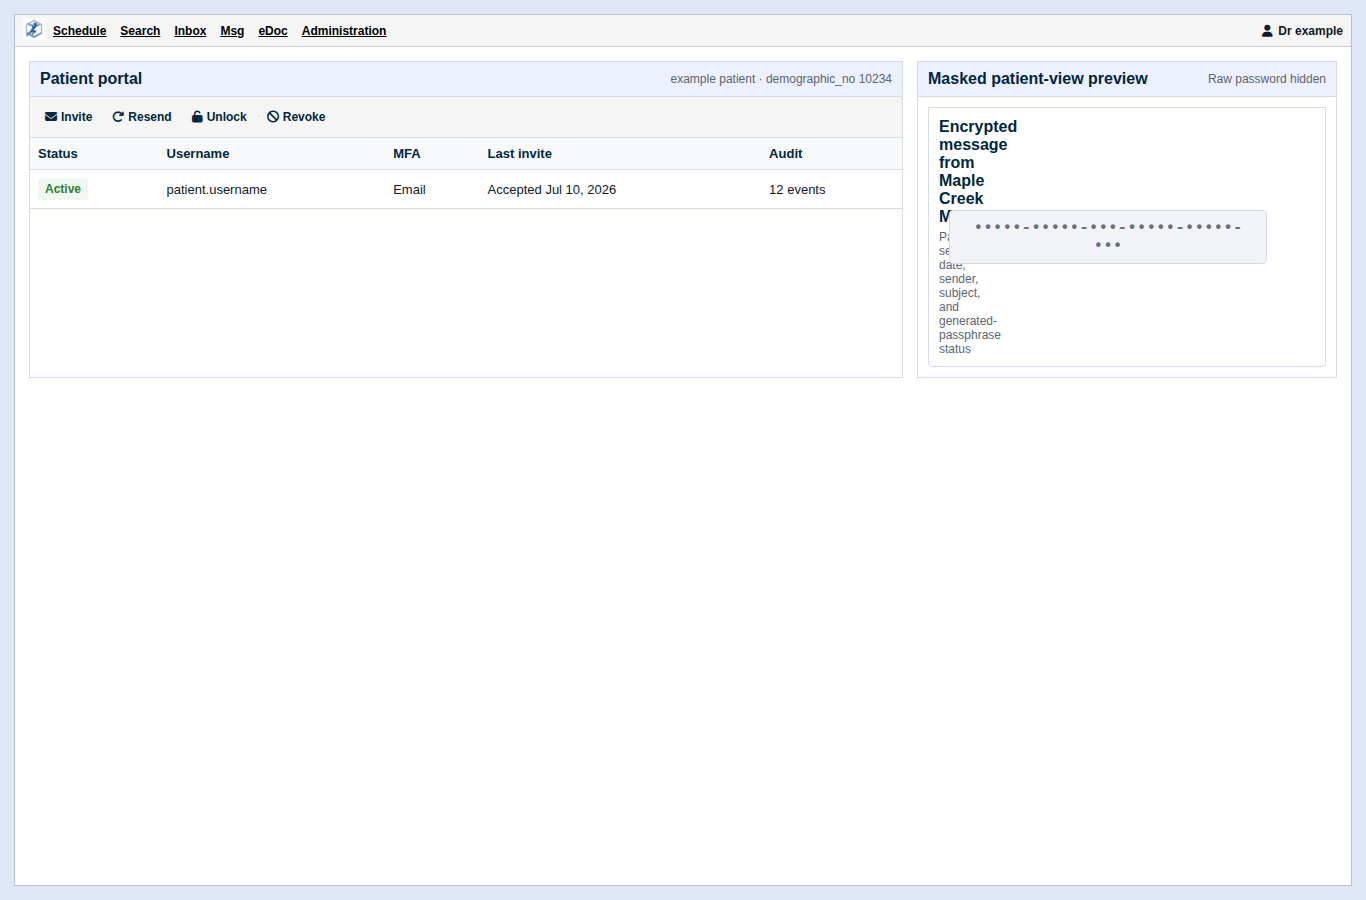
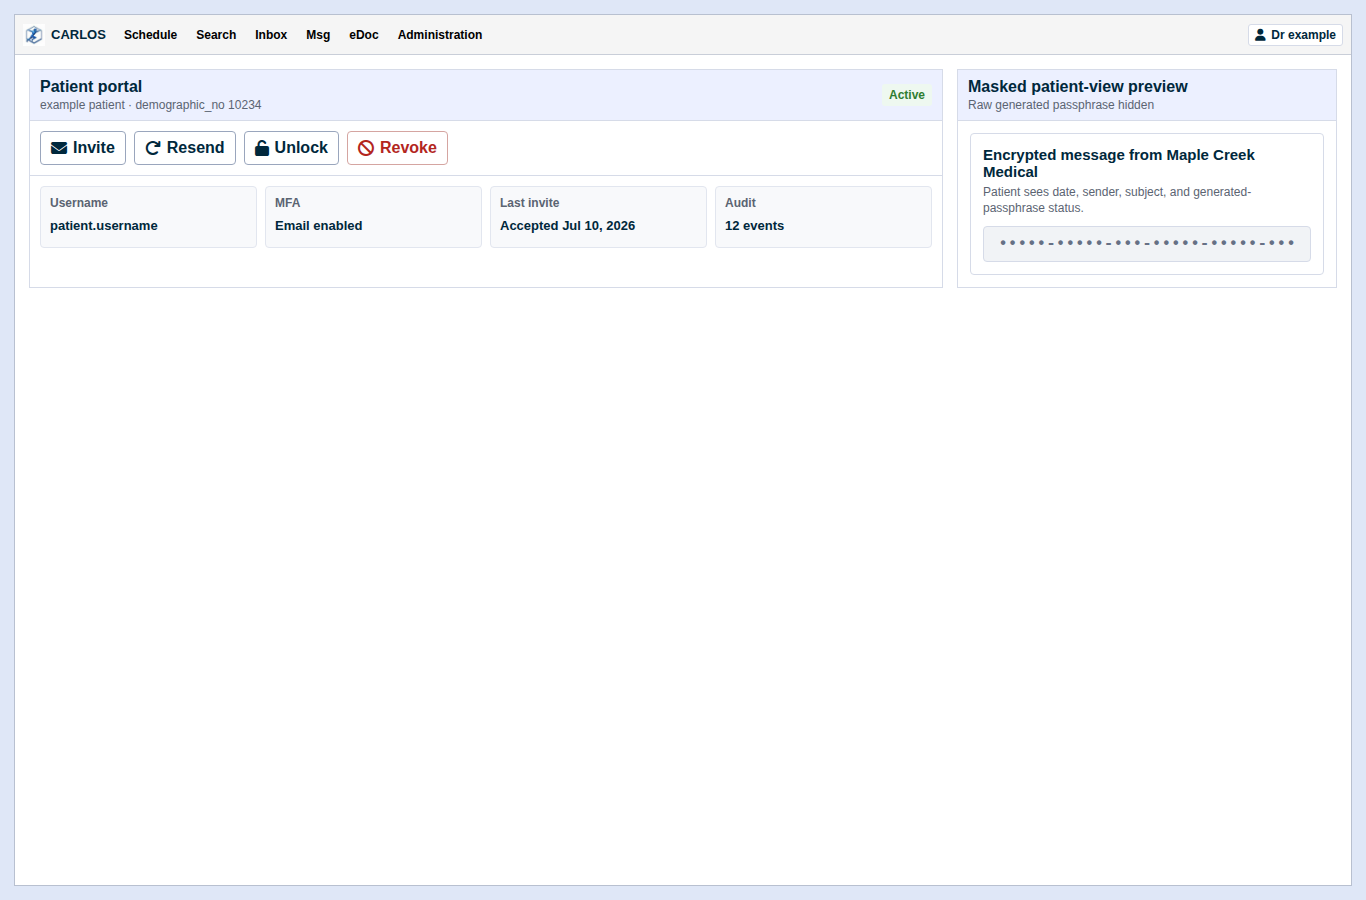
docs: clean up staff portal admin mock

diff --git a/patient-portal-mocks/index.html b/patient-portal-mocks/index.html
@@ -337,61 +337,67 @@
 
       <section class="portal-screen" id="staff" aria-label="Staff admin mock">
         <header class="staff-topbar">
-          <div class="staff-nav">
-            <span class="tiny-logo"><img src="../src/main/webapp/images/oscar_logo_small.png" alt=""></span>
+          <div class="staff-brand">
+            <img src="../src/main/webapp/images/oscar_logo_small.png" alt="">
+            <strong>CARLOS</strong>
+          </div>
+          <nav class="staff-nav" aria-label="CARLOS navigation">
             <a href="#">Schedule</a>
             <a href="#">Search</a>
             <a href="#">Inbox</a>
             <a href="#">Msg</a>
             <a href="#">eDoc</a>
             <a href="#">Administration</a>
-          </div>
+          </nav>
           <div class="staff-user"><i class="fas fa-user"></i><span>Dr example</span></div>
         </header>
 
         <div class="staff-workspace">
-          <section class="staff-panel">
+          <section class="staff-panel staff-account-panel">
             <div class="panel-titlebar">
-              <h1>Patient portal</h1>
-              <span>example patient · demographic_no 10234</span>
+              <div>
+                <h1>Patient portal</h1>
+                <span>example patient · demographic_no 10234</span>
+              </div>
+              <span class="pill good">Active</span>
             </div>
             <div class="staff-toolbar">
-              <button class="toolbar-link"><i class="fas fa-envelope"></i><span>Invite</span></button>
-              <button class="toolbar-link"><i class="fas fa-redo"></i><span>Resend</span></button>
-              <button class="toolbar-link"><i class="fas fa-unlock"></i><span>Unlock</span></button>
-              <button class="toolbar-link danger"><i class="fas fa-ban"></i><span>Revoke</span></button>
+              <button class="secondary-action"><i class="fas fa-envelope"></i><span>Invite</span></button>
+              <button class="secondary-action"><i class="fas fa-redo"></i><span>Resend</span></button>
+              <button class="secondary-action"><i class="fas fa-unlock"></i><span>Unlock</span></button>
+              <button class="secondary-action danger-action"><i class="fas fa-ban"></i><span>Revoke</span></button>
             </div>
-            <table class="staff-table">
-              <thead>
-                <tr>
-                  <th>Status</th>
-                  <th>Username</th>
-                  <th>MFA</th>
-                  <th>Last invite</th>
-                  <th>Audit</th>
-                </tr>
-              </thead>
-              <tbody>
-                <tr>
-                  <td><span class="pill good">Active</span></td>
-                  <td>patient.username</td>
-                  <td>Email</td>
-                  <td>Accepted Jul 10, 2026</td>
-                  <td>12 events</td>
-                </tr>
-              </tbody>
-            </table>
+            <div class="staff-detail-grid">
+              <div>
+                <span>Username</span>
+                <strong>patient.username</strong>
+              </div>
+              <div>
+                <span>MFA</span>
+                <strong>Email enabled</strong>
+              </div>
+              <div>
+                <span>Last invite</span>
+                <strong>Accepted Jul 10, 2026</strong>
+              </div>
+              <div>
+                <span>Audit</span>
+                <strong>12 events</strong>
+              </div>
+            </div>
           </section>
 
-          <section class="staff-panel">
+          <section class="staff-panel staff-preview-panel">
             <div class="panel-titlebar">
-              <h2>Masked patient-view preview</h2>
-              <span>Raw password hidden</span>
+              <div>
+                <h2>Masked patient-view preview</h2>
+                <span>Raw generated passphrase hidden</span>
+              </div>
             </div>
-            <article class="record-row staff-preview">
-              <div class="record-main">
-                <div class="record-title">Encrypted message from Maple Creek Medical</div>
-                <div class="record-meta">Patient sees date, sender, subject, and generated-passphrase status</div>
+            <article class="staff-preview">
+              <div>
+                <h3>Encrypted message from Maple Creek Medical</h3>
+                <p>Patient sees date, sender, subject, and generated-passphrase status.</p>
               </div>
               <div class="password-chip muted">•••••-•••••-•••-•••••-•••••-•••</div>
             </article>

diff --git a/patient-portal-mocks/styles.css b/patient-portal-mocks/styles.css
@@ -693,41 +693,63 @@ h2 {
 }
 
 .staff-topbar {
-  min-height: 32px;
-  padding: 2px 8px;
+  display: grid;
+  grid-template-columns: auto minmax(0, 1fr) auto;
+  gap: 10px;
+  align-items: center;
+  min-height: 40px;
+  padding: 5px 8px;
+}
+
+.staff-brand {
+  display: inline-flex;
+  align-items: center;
+  gap: 6px;
+  color: var(--carlos-blue-dark);
+  font-size: 13px;
+}
+
+.staff-brand img {
+  width: 22px;
+  height: 22px;
 }
 
 .staff-nav {
   display: flex;
   align-items: center;
-  flex-wrap: wrap;
-  gap: 2px;
+  flex-wrap: nowrap;
+  gap: 3px;
+  min-width: 0;
 }
 
 .staff-nav a {
-  padding: 3px 6px;
+  padding: 4px 7px;
   color: #000;
   font-size: 12px;
   font-weight: bold;
-  text-decoration: underline;
+  border: 1px solid transparent;
+  border-radius: 3px;
+  text-decoration: none;
+  white-space: nowrap;
 }
 
 .staff-nav a:hover {
   color: #fff;
   background: var(--carlos-blue);
+  border-color: var(--carlos-blue);
   text-decoration: none;
 }
 
-.tiny-logo img {
-  width: 22px;
-  height: 22px;
-}
-
 .staff-user {
-  display: flex;
+  display: inline-flex;
   gap: 5px;
   align-items: center;
-  margin-left: auto;
+  justify-self: end;
+  padding: 3px 6px;
+  color: var(--carlos-blue-dark);
+  background: #fff;
+  border: 1px solid var(--line);
+  border-radius: 3px;
   font-size: 12px;
   font-weight: bold;
 }
@@ -737,7 +759,7 @@ h2 {
 }
 
 .staff-workspace {
-  grid-template-columns: minmax(0, 1fr) minmax(320px, 420px);
+  grid-template-columns: minmax(0, 1fr) minmax(320px, 380px);
 }
 
 .panel-titlebar {
@@ -748,6 +770,11 @@ h2 {
   padding: 8px 10px;
   background: var(--surface-3);
   border-bottom: 1px solid var(--line);
+}
+
+.panel-titlebar > div {
+  display: grid;
+  gap: 2px;
 }
 
 .panel-titlebar h1,
@@ -764,38 +791,76 @@ h2 {
 .staff-toolbar {
   display: flex;
   flex-wrap: wrap;
-  gap: 2px;
-  padding: 6px;
-  background: #f5f5f5;
+  gap: 8px;
+  padding: 10px;
+  background: #fff;
   border-bottom: 1px solid var(--line);
 }
 
-.toolbar-link.danger:hover {
+.danger-action {
+  color: var(--red);
+  border-color: #d5a5a1;
+}
+
+.danger-action:hover {
+  color: #fff;
   background: var(--red);
 }
 
-.staff-table {
-  width: 100%;
-  border-collapse: collapse;
-  font-size: 13px;
+.staff-detail-grid {
+  display: grid;
+  grid-template-columns: repeat(4, minmax(130px, 1fr));
+  gap: 8px;
+  padding: 10px;
 }
 
-.staff-table th,
-.staff-table td {
-  padding: 8px;
-  border-bottom: 1px solid var(--line);
-  text-align: left;
-}
-
-.staff-table th {
+.staff-detail-grid div {
+  display: grid;
+  gap: 4px;
+  min-height: 62px;
+  padding: 9px;
   background: #f8f9fb;
+  border: 1px solid #e2e6ef;
+  border-radius: 4px;
+}
+
+.staff-detail-grid span {
+  color: var(--muted);
+  font-size: 12px;
+  font-weight: bold;
+}
+
+.staff-detail-grid strong {
   color: var(--carlos-blue-dark);
+  font-size: 13px;
+  line-height: 1.3;
 }
 
 .staff-preview {
-  margin: 10px;
-  border-bottom: 1px solid var(--line);
+  display: grid;
+  gap: 10px;
+  margin: 12px;
+  padding: 12px;
+  background: #fff;
+  border: 1px solid var(--line);
   border-radius: 4px;
+}
+
+.staff-preview h3 {
+  margin: 0 0 4px;
+  color: var(--carlos-blue-dark);
+  font-size: 15px;
+}
+
+.staff-preview p {
+  margin: 0;
+  color: var(--muted);
+  font-size: 12px;
+  line-height: 1.35;
+}
+
+.staff-preview .password-chip {
+  min-width: 0;
 }
 
 .message-layout {
@@ -963,6 +1028,46 @@ h2 {
   .record-row .icon-button {
     grid-column: 2;
     grid-row: 1;
+  }
+
+  .staff-topbar {
+    grid-template-columns: minmax(0, 1fr) auto;
+    gap: 6px 8px;
+    padding: 6px 8px;
+  }
+
+  .staff-brand {
+    min-width: 0;
+  }
+
+  .staff-nav {
+    grid-column: 1 / -1;
+    grid-row: 2;
+    overflow-x: auto;
+    padding-bottom: 2px;
+  }
+
+  .staff-user {
+    grid-column: 2;
+    grid-row: 1;
+  }
+
+  .panel-titlebar {
+    align-items: flex-start;
+    flex-direction: column;
+  }
+
+  .staff-toolbar {
+    display: grid;
+    grid-template-columns: repeat(2, minmax(0, 1fr));
+  }
+
+  .staff-toolbar .secondary-action {
+    width: 100%;
+  }
+
+  .staff-detail-grid {
+    grid-template-columns: 1fr;
   }
 
   .pagination-bar {
